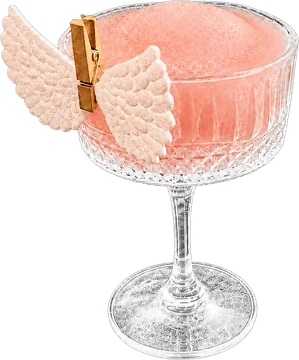
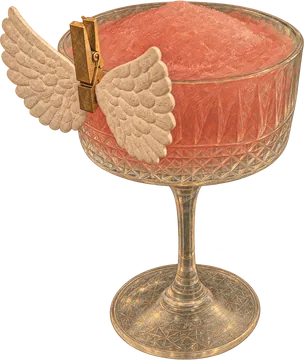
Swap in the AI-restyled cocktail art
The extracted menu cutouts were lit for a white page — mean brightness
0.83 against the mural's 0.40, with 35% of their pixels blown past 0.92.
Dropped onto the hero they read as stickers. The restyled set measures
0.70 brightness and 7% blown, so the glasses now sit in the painting.

Matched each restyled file back to its drink by alpha-silhouette IoU
(all 17 unique, every score >= 0.87) since the tool returned UUIDs, then
rebuilt the shipping WebPs from them at 360px tall, q82 — 486 KB for the
set, and only the current drink plus one preload is ever fetched.

The fog palette is unchanged: the restyle preserved hue, and each entry
still matches its drink (Peacock blue, Eden green, Arabelle pink). Do not
re-derive it automatically — the new warm patina on every glass outvotes
the liquid in a hue histogram, and side garnishes (the orchid, the brass
butterfly, the peacock feather) defeat a centre-crop too. It was checked
by eye against a contact sheet instead.

Widths updated where the silhouette shifted, so the reserved box still
matches the image and nothing reflows mid-cycle.

Also points the card at /pages/menu.html. It was on /menu, which 404s —
clean URLs have not been built yet.

diff --git a/src/js/hero-cocktails.js b/src/js/hero-cocktails.js
@@ -14,7 +14,7 @@
     {
       "slug": "arabelle-loves-violets",
       "name": "Arabelle Loves Violets",
-      "w": 328,
+      "w": 322,
       "h": 360,
       "fog": {
         "highlight": "#f580a4",
@@ -25,7 +25,7 @@
     {
       "slug": "eden",
       "name": "Eden",
-      "w": 329,
+      "w": 326,
       "h": 360,
       "fog": {
         "highlight": "#f5ef8d",
@@ -36,7 +36,7 @@
     {
       "slug": "sex-and-the-city",
       "name": "Sex and the City",
-      "w": 351,
+      "w": 353,
       "h": 360,
       "fog": {
         "highlight": "#cc4540",
@@ -58,7 +58,7 @@
     {
       "slug": "peacock-oclock",
       "name": "Peacock O’Clock",
-      "w": 315,
+      "w": 323,
       "h": 360,
       "fog": {
         "highlight": "#69c6f5",
@@ -80,7 +80,7 @@
     {
       "slug": "make-me-blush",
       "name": "Make Me Blush",
-      "w": 231,
+      "w": 236,
       "h": 360,
       "fog": {
         "highlight": "#f59f9e",
@@ -102,7 +102,7 @@
     {
       "slug": "spice-girl-fall-edit",
       "name": "Spice Girl",
-      "w": 230,
+      "w": 235,
       "h": 360,
       "fog": {
         "highlight": "#f5935f",
@@ -113,7 +113,7 @@
     {
       "slug": "filthy-rich",
       "name": "Filthy Rich",
-      "w": 272,
+      "w": 270,
       "h": 360,
       "fog": {
         "highlight": "#f1c98b",
@@ -124,7 +124,7 @@
     {
       "slug": "passion-ash",
       "name": "Passion & Ash",
-      "w": 192,
+      "w": 198,
       "h": 360,
       "fog": {
         "highlight": "#f06e64",
@@ -135,7 +135,7 @@
     {
       "slug": "vanilla-chanel",
       "name": "Vanilla & Chanel",
-      "w": 220,
+      "w": 214,
       "h": 360,
       "fog": {
         "highlight": "#f5b681",
@@ -146,7 +146,7 @@
     {
       "slug": "palomas-give-you-wings",
       "name": "Palomas Give You Wings",
-      "w": 299,
+      "w": 304,
       "h": 360,
       "fog": {
         "highlight": "#f5b19a",
@@ -157,7 +157,7 @@
     {
       "slug": "pearfection",
       "name": "Pearfection",
-      "w": 222,
+      "w": 213,
       "h": 360,
       "fog": {
         "highlight": "#f5b066",
@@ -168,7 +168,7 @@
     {
       "slug": "tipsy-peach",
       "name": "Tipsy Peach",
-      "w": 321,
+      "w": 316,
       "h": 360,
       "fog": {
         "highlight": "#f58a56",
@@ -179,7 +179,7 @@
     {
       "slug": "spritz-me-im-fancy",
       "name": "Spritz Me, I’m Fancy",
-      "w": 262,
+      "w": 270,
       "h": 360,
       "fog": {
         "highlight": "#f58861",
@@ -190,7 +190,7 @@
     {
       "slug": "what-happens-in-pineapple-grove",
       "name": "What Happens in Pineapple Grove…",
-      "w": 240,
+      "w": 238,
       "h": 360,
       "fog": {
         "highlight": "#f5bf70",

diff --git a/index.html b/index.html
@@ -103,7 +103,7 @@
                  which would override this layer's absolute positioning and collapse it
                  to 0x0 as a flex item. So it gets its own inner div to scribble on. -->
             <div class="cocktail-fog" aria-hidden="true"><div id="cocktail-fog"></div></div>
-            <a class="cocktail-card" id="cocktail-card" href="/menu"
+            <a class="cocktail-card" id="cocktail-card" href="/pages/menu.html"
                aria-label="See the full cocktail menu">
               <span class="cocktail-name" id="cocktail-name"></span>
               <img class="cocktail-img" id="cocktail-img" src="" alt=""
